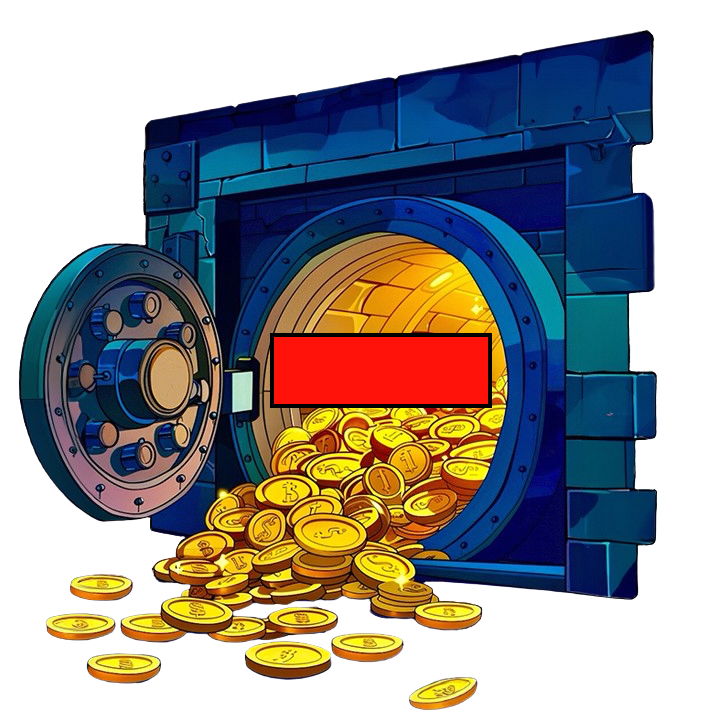
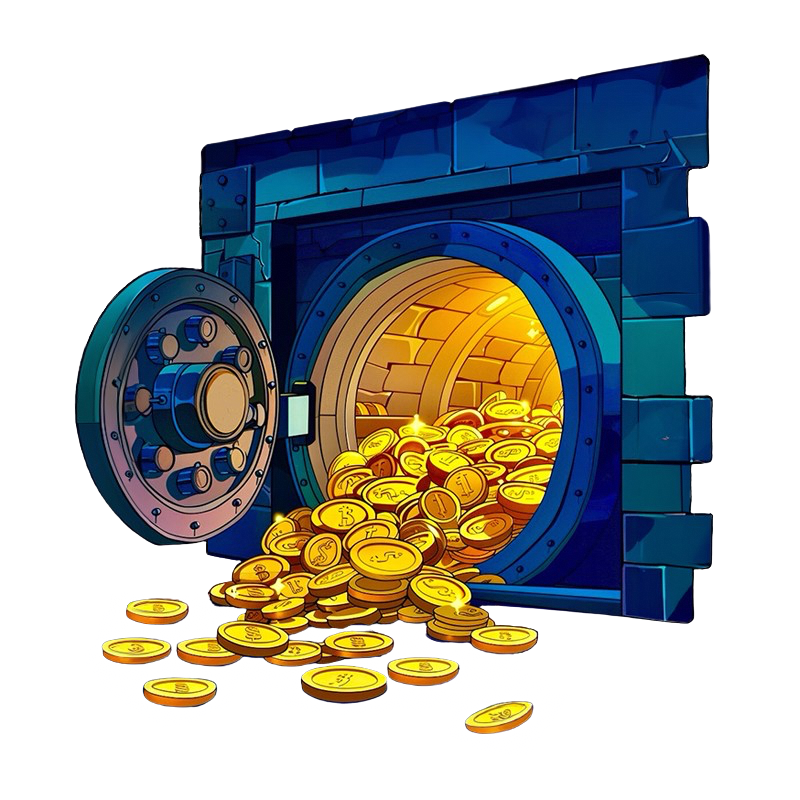
updates

diff --git a/src/App.tsx b/src/App.tsx
@@ -1,67 +1,41 @@
-
-
+import React, { useMemo, useState, useEffect } from 'react';
 import "./App.css";
 import VoteBar from './VoteBar.jsx';
 import VoteComponent from './VoteComponent.js';
 import PresidentDisplay from './PresidentDisplay.js';
 
-import { fetchUserVoteInfo, getTreasuryBalance } from './blockchainData/globalVotes';
-
-import React, { useMemo, useState, useEffect } from 'react';
+import { fetchUserVoteInfo, getTreasuryBalance, fetchGlobalAccountData } from './blockchainData/globalVotes';
 import { ConnectionProvider, WalletProvider, useAnchorWallet, useConnection, useWallet } from '@solana/wallet-adapter-react';
 import { WalletAdapterNetwork } from '@solana/wallet-adapter-base';
 import { UnsafeBurnerWalletAdapter } from '@solana/wallet-adapter-wallets';
-
-import {
-    WalletModalProvider,
-    WalletMultiButton
-} from '@solana/wallet-adapter-react-ui';
+import { WalletModalProvider, WalletMultiButton } from '@solana/wallet-adapter-react-ui';
 import { clusterApiUrl, PublicKey } from '@solana/web3.js';
-
-// Default styles that can be overridden by your app
-import '@solana/wallet-adapter-react-ui/styles.css';
-
 import { Program, Idl, AnchorProvider, setProvider, BN } from "@coral-xyz/anchor";
-import idl from "./blockchainData/idl.json";
-import { fetchGlobalAccountData } from './blockchainData/globalVotes.ts';
 import { Buffer } from 'buffer';
+import idl from "./blockchainData/idl.json";
 global.Buffer = Buffer;
 
-const programId = new PublicKey("FfUTJ9ehMc2wbB4mXp6KmM2idNZE1p4qFFVPysGFB3Gi");
+import '@solana/wallet-adapter-react-ui/styles.css';
 
+const programId = new PublicKey("FfUTJ9ehMc2wbB4mXp6KmM2idNZE1p4qFFVPysGFB3Gi");
 const program = new Program(idl as Idl, programId);
 
 
-
-
-
-
-
-
+const formatNumberWithCommas = (number) => {
+    return new Intl.NumberFormat('en-US').format(number);
+};
 
 const App = () => {
-    // The network can be set to 'devnet', 'testnet', or 'mainnet-beta'.
-
     const network = WalletAdapterNetwork.Testnet;
-
-    // You can also provide a custom RPC endpoint.
     const endpoint = useMemo(() => clusterApiUrl(network), [network]);
 
-    const wallets = useMemo(
-        () => [
-
-            new UnsafeBurnerWalletAdapter(),
-        ],
-        // eslint-disable-next-line react-hooks/exhaustive-deps
-        [network]
-    );
-
+    const wallets = useMemo(() => [new UnsafeBurnerWalletAdapter()], [network]);
 
     const [amount, setAmount] = useState(5000);
     const [candidate, setCandidate] = useState("tremp");
     const [timeLength, setTimeLength] = useState("1 day");
     const [voteData, setVoteData] = useState(null);
-    const [treasuryData, setreasuryData] = useState(null);
+    const [treasuryData, setTreasuryData] = useState(null);
 
     useEffect(() => {
         const getVoteData = async () => {
@@ -71,29 +45,34 @@ const App = () => {
 
         const getTreasuryData = async () => {
             const data = await getTreasuryBalance();
-            setreasuryData(data);
+            setTreasuryData(data);
         };
 
-
-        getVoteData()
+        getVoteData();
         getTreasuryData();
-        const interval = setInterval(() => {
-            getVoteData()
+
+        const voteDataInterval = setInterval(() => {
+            getVoteData();
         }, 9000);
 
+        const treasuryDataInterval = setInterval(() => {
+            getTreasuryData();
+        }, 9000);
 
-        return () => clearInterval(interval)
+        return () => {
+            clearInterval(voteDataInterval);
+            clearInterval(treasuryDataInterval);
+        };
     }, []);
 
-    if (!voteData) {
-        return <p>Loading vote data...</p>;
+    if (!voteData || !treasuryData) {
+        return <p>Loading data...</p>;
     }
 
     let { tremp, boden } = voteData;
     if (boden === 0) {
         boden = 1;
     }
-
 
     const getImageForCandidate = (candidate, timeLength) => {
         if (candidate === 'tremp') {
@@ -108,12 +87,9 @@ const App = () => {
             return '/test/biden4.png';
         }
     };
+
     const trempImage = candidate === 'tremp' ? getImageForCandidate('tremp', timeLength) : '/test/tremp1.png';
     const bodenImage = candidate === 'boden' ? getImageForCandidate('boden', timeLength) : '/test/biden1.png';
-
-
-
-
 
     return (
         <ConnectionProvider endpoint={endpoint}>
@@ -123,8 +99,6 @@ const App = () => {
                     <div className="app-container">
                         <img src="/test/header.png" alt="Header" className="header-image" />
                         <div className="horizontal-layout">
-
-                        
                             <PresidentDisplay imageSrc={bodenImage} isSelected={candidate === 'boden'} totalVotes={boden} presidentTitle={"Jeo Boden"} podiumImageSrc={"/test/podium.png"} presidentLink={"https://www.boden4pres.com/"} />
                             <VoteBar timeLength={timeLength} candidate={candidate} trempAmount={tremp} bodenAmount={boden} />
                             <PresidentDisplay imageSrc={trempImage} isSelected={candidate === 'tremp'} totalVotes={tremp} presidentTitle={"Doland Tremp"} podiumImageSrc={"/test/podium2.png"} presidentLink={"https://www.tremp.xyz/"} />
@@ -137,17 +111,17 @@ const App = () => {
                             timeLength={timeLength}
                             setTimeLength={setTimeLength}
                         />
-                    </div>
-
-       
+                   
+                    <a href="https://explorer.solana.com/address/Bbptu2vKaMXrcAsfRvU8XJHj3U5J5U4GTY8PJwzosFkT?cluster=testnet">
                     <div className="treasury-container">
                         <h2 className="treasury-title">Treasury Amount</h2>
-
                         <img src="/test/voteVaultBackground.png" alt="TreasuryBackground" className="treasury-image" />
-                        <div className="treasury-value">{Math.round(treasuryData)}<br />$VOTE</div>
-
+   
+                        <div className="treasury-value">{formatNumberWithCommas(Math.round(treasuryData))}<br />$VOTE</div>
+                       
                     </div>
-
+                    </a>
+                    </div>
                 </WalletModalProvider>
             </WalletProvider>
         </ConnectionProvider>

diff --git a/src/App.css b/src/App.css
@@ -1,23 +1,42 @@
-body{
-    background-color: #FFEFD5;
+body {
+  background-color: #4985EC;
+  margin: 0;
+  padding: 0;
+  height: 100%; /* Ensure body covers the full height */
 }
 
-.header-image {
-    width: 80%; /* Adjust the width as needed */
-    max-width: 700px; /* Limit the maximum width of the header image */
-    margin-bottom: 20px; /* Space between header image and content */
-    display: block; /* Ensures the image is treated as a block element */
-    margin-left: auto; /* Center the image horizontally */
-    margin-right: auto; /* Center the image horizontally */
-  }
+html {
+  height: 100%; /* Ensure html covers the full height */
+}
 
-.treasury-image{
-    width: 80%; /* Adjust the width as needed */
-    max-width: 700px; /* Limit the maximum width of the header image */
-    margin-bottom: 20px; /* Space between header image and content */
-    display: block; /* Ensures the image is treated as a block element */
-    margin-left: auto; /* Center the image horizontally */
-    margin-right: auto; /* Center the image horizontally */
+.app-container {
+  position: relative;
+  z-index: 1;
+  min-height: 100vh; /* Ensure the container covers the full viewport height */
+}
+
+body::before {
+  content: '';
+  position: fixed; /* Fixed positioning to ensure it spans the full viewport height */
+  top: 0;
+  bottom: 0;
+  left: 20.33%;
+  right: 20.33%;
+  background-color: snow; /* Color of the strip */
+  z-index: -1; /* Ensure it stays behind other elements */
+}
+
+/* Ensure all content is positioned above the background overlay */
+.header-image,
+.treasury-image {
+  width: 80%;
+  max-width: 700px;
+  margin-bottom: 20px;
+  display: block;
+  margin-left: auto;
+  margin-right: auto;
+  position: relative;
+  z-index: 1;
 }
 
 .treasury-title {
@@ -27,25 +46,30 @@ body{
   transform: translate(-50%, -50%);
   font-size: 2rem;
   color: white;
+  z-index: 2; /* Ensure it's above other elements */
 }
 
-  a {
-    text-decoration: none; /* Remove underline */
-    color: inherit; /* Inherit text color */
-  }
-
-  .treasury-container {
-    position: relative;
-    text-align: center;
+a {
+  text-decoration: none;
+  color: inherit;
 }
 
-
+.treasury-container {
+  position: relative;
+  text-align: center;
+  z-index: 1;
+}
 
 .treasury-value {
-    position: absolute;
-    top: 51%;
-    left: 50.7%;
-    transform: translate(-50%, -50%);
-    font-size: 2rem;
-    color: white;
+  position: absolute;
+  top: 51%;
+  left: 50.7%;
+  transform: translate(-50%, -50%);
+  font-size: 20px;
+  color: white;
+  z-index: 2; /* Ensure it's above other elements */
+  background-color: red; /* Red background */
+  border: 5px solid black; /* Black border */
+  padding: 10px; /* Padding inside the box */
+  display: inline-block; /* Ensure the box size fits the text */
 }

diff --git a/src/VoteComponent.tsx b/src/VoteComponent.tsx
@@ -18,6 +18,10 @@ const mintKeypair = Keypair.fromSecretKey(new Uint8Array([
   248, 29, 116, 77, 168, 169, 120, 236, 65
 ]));
 
+const formatNumberWithCommas = (number) => {
+  return new Intl.NumberFormat('en-US').format(number);
+};
+
 const VoteComponent = () => {
   const { connected, publicKey } = useWallet();
   const wallet = useAnchorWallet();
@@ -157,7 +161,7 @@ const VoteComponent = () => {
         rewardRateDenominator = 0.2;
     }
 
-    return Math.round(amount * rewardRateDenominator);
+    return formatNumberWithCommas(Math.round(amount * rewardRateDenominator));
   }, [amount, timeLength]);
 
   const handleSubmit = async () => {
@@ -233,7 +237,7 @@ const VoteComponent = () => {
     seconds -= hours * 60 * 60;
     const minutes = Math.floor(seconds / 60);
     seconds -= minutes * 60;
-    return `${months}M ${days}D ${hours}H ${minutes}m ${seconds}s`;
+    return `${formatNumberWithCommas(months)}M ${formatNumberWithCommas(days)}D ${formatNumberWithCommas(hours)}H ${formatNumberWithCommas(minutes)}m ${formatNumberWithCommas(seconds)}s`;
   }
 
   if (!connected) {
@@ -252,7 +256,7 @@ const VoteComponent = () => {
     return <p>Error: {error.message}</p>;
   }
 
-  if (tokenBalance < 5000) {
+  if (tokenBalance < 5000 && !voteInfoData.is_voted) {
     return (
       <div className="vote-container">
         <p>You need at least 5000 vote tokens to place a vote.</p>
@@ -264,7 +268,7 @@ const VoteComponent = () => {
     return (
       <div className="vote-container">
         <h2>Your Vote Is Sealed</h2>
-        <p>Vote Amount: {voteInfoData.vote_amount}</p>
+        <p>Vote Amount: {formatNumberWithCommas(voteInfoData.vote_amount)}</p>
         <p>Voted for: {voteInfoData.wif_tremp ? 'Tremp' : 'Boden'}</p>
         {countdown > 0 ? (
           <div className="clock-countdown">
@@ -299,7 +303,7 @@ const VoteComponent = () => {
       </FormControl>
 
       <div className="slider-container">
-        <InputLabel className="slider-label">Amount: {amount}</InputLabel>
+        <InputLabel className="slider-label">Amount: {formatNumberWithCommas(amount)}</InputLabel>
         <Slider
           value={amount}
           min={5000}
@@ -307,6 +311,7 @@ const VoteComponent = () => {
           step={100}
           onChange={handleAmountChange}
           valueLabelDisplay="auto"
+          valueLabelFormat={formatNumberWithCommas}
         />
       </div>
 
@@ -318,7 +323,7 @@ const VoteComponent = () => {
       </FormControl>
 
       <div className="token-info">
-        <p>Your Tokens: {tokenBalance}</p>
+        <p>Your Tokens: {formatNumberWithCommas(tokenBalance)}</p>
         <p>Estimated Rewards: {calculateRewards} tokens</p>
       </div>
 

diff --git a/src/PresidentDisplay.tsx b/src/PresidentDisplay.tsx
@@ -1,10 +1,12 @@
 import React from 'react';
 import './PresidentDisplay.css'; // Assuming you have CSS for PresidentDisplay
 
+const formatNumberWithCommas = (number) => {
+  return new Intl.NumberFormat('en-US').format(number);
+};
+
 const PresidentDisplay = ({ imageSrc, podiumImageSrc, isSelected, totalVotes, presidentTitle, presidentLink }) => {
-  const getImageLevel = (isSelected) => {
-    return isSelected ? 1 : 0.5; // Adjust opacity based on selection
-  };
+ 
 
   return (
     <div className="president-display">
@@ -12,14 +14,14 @@ const PresidentDisplay = ({ imageSrc, podiumImageSrc, isSelected, totalVotes, pr
         <div className="president-info">
           <p className="president-title">{presidentTitle}</p>
         </div>
-        <div className="image-overlay" style={{ opacity: getImageLevel(isSelected) }}>
+        <div className="image-overlay">
           <img className="president-image" src={imageSrc} alt="Candidate" />
           <div className={`podium-overlay ${isSelected ? 'tremp' : 'boden'}`}>
             <img className="podium-image" src={podiumImageSrc} alt="Podium" />
           </div>
         </div>
         <div className="total-votes">
-          <p>Votes: {totalVotes}</p>
+          <p>Votes: {formatNumberWithCommas(totalVotes)}</p>
         </div>
       </a>
     </div>

diff --git a/src/PresidentDisplay.css b/src/PresidentDisplay.css
@@ -37,7 +37,7 @@
 }
 
 .president-info {
-  margin-bottom: 10px; /* Space between president info and image */
+  margin-bottom: 2px; /* Space between president info and image */
 }
 
 .president-title {

diff --git a/src/votebar.css b/src/votebar.css
@@ -24,6 +24,7 @@
   justify-content: center;
   align-items: center;
   width: 45%;
+  min-width: 30%;
   text-align: center; /* Centers contents horizontally */
 }
 
